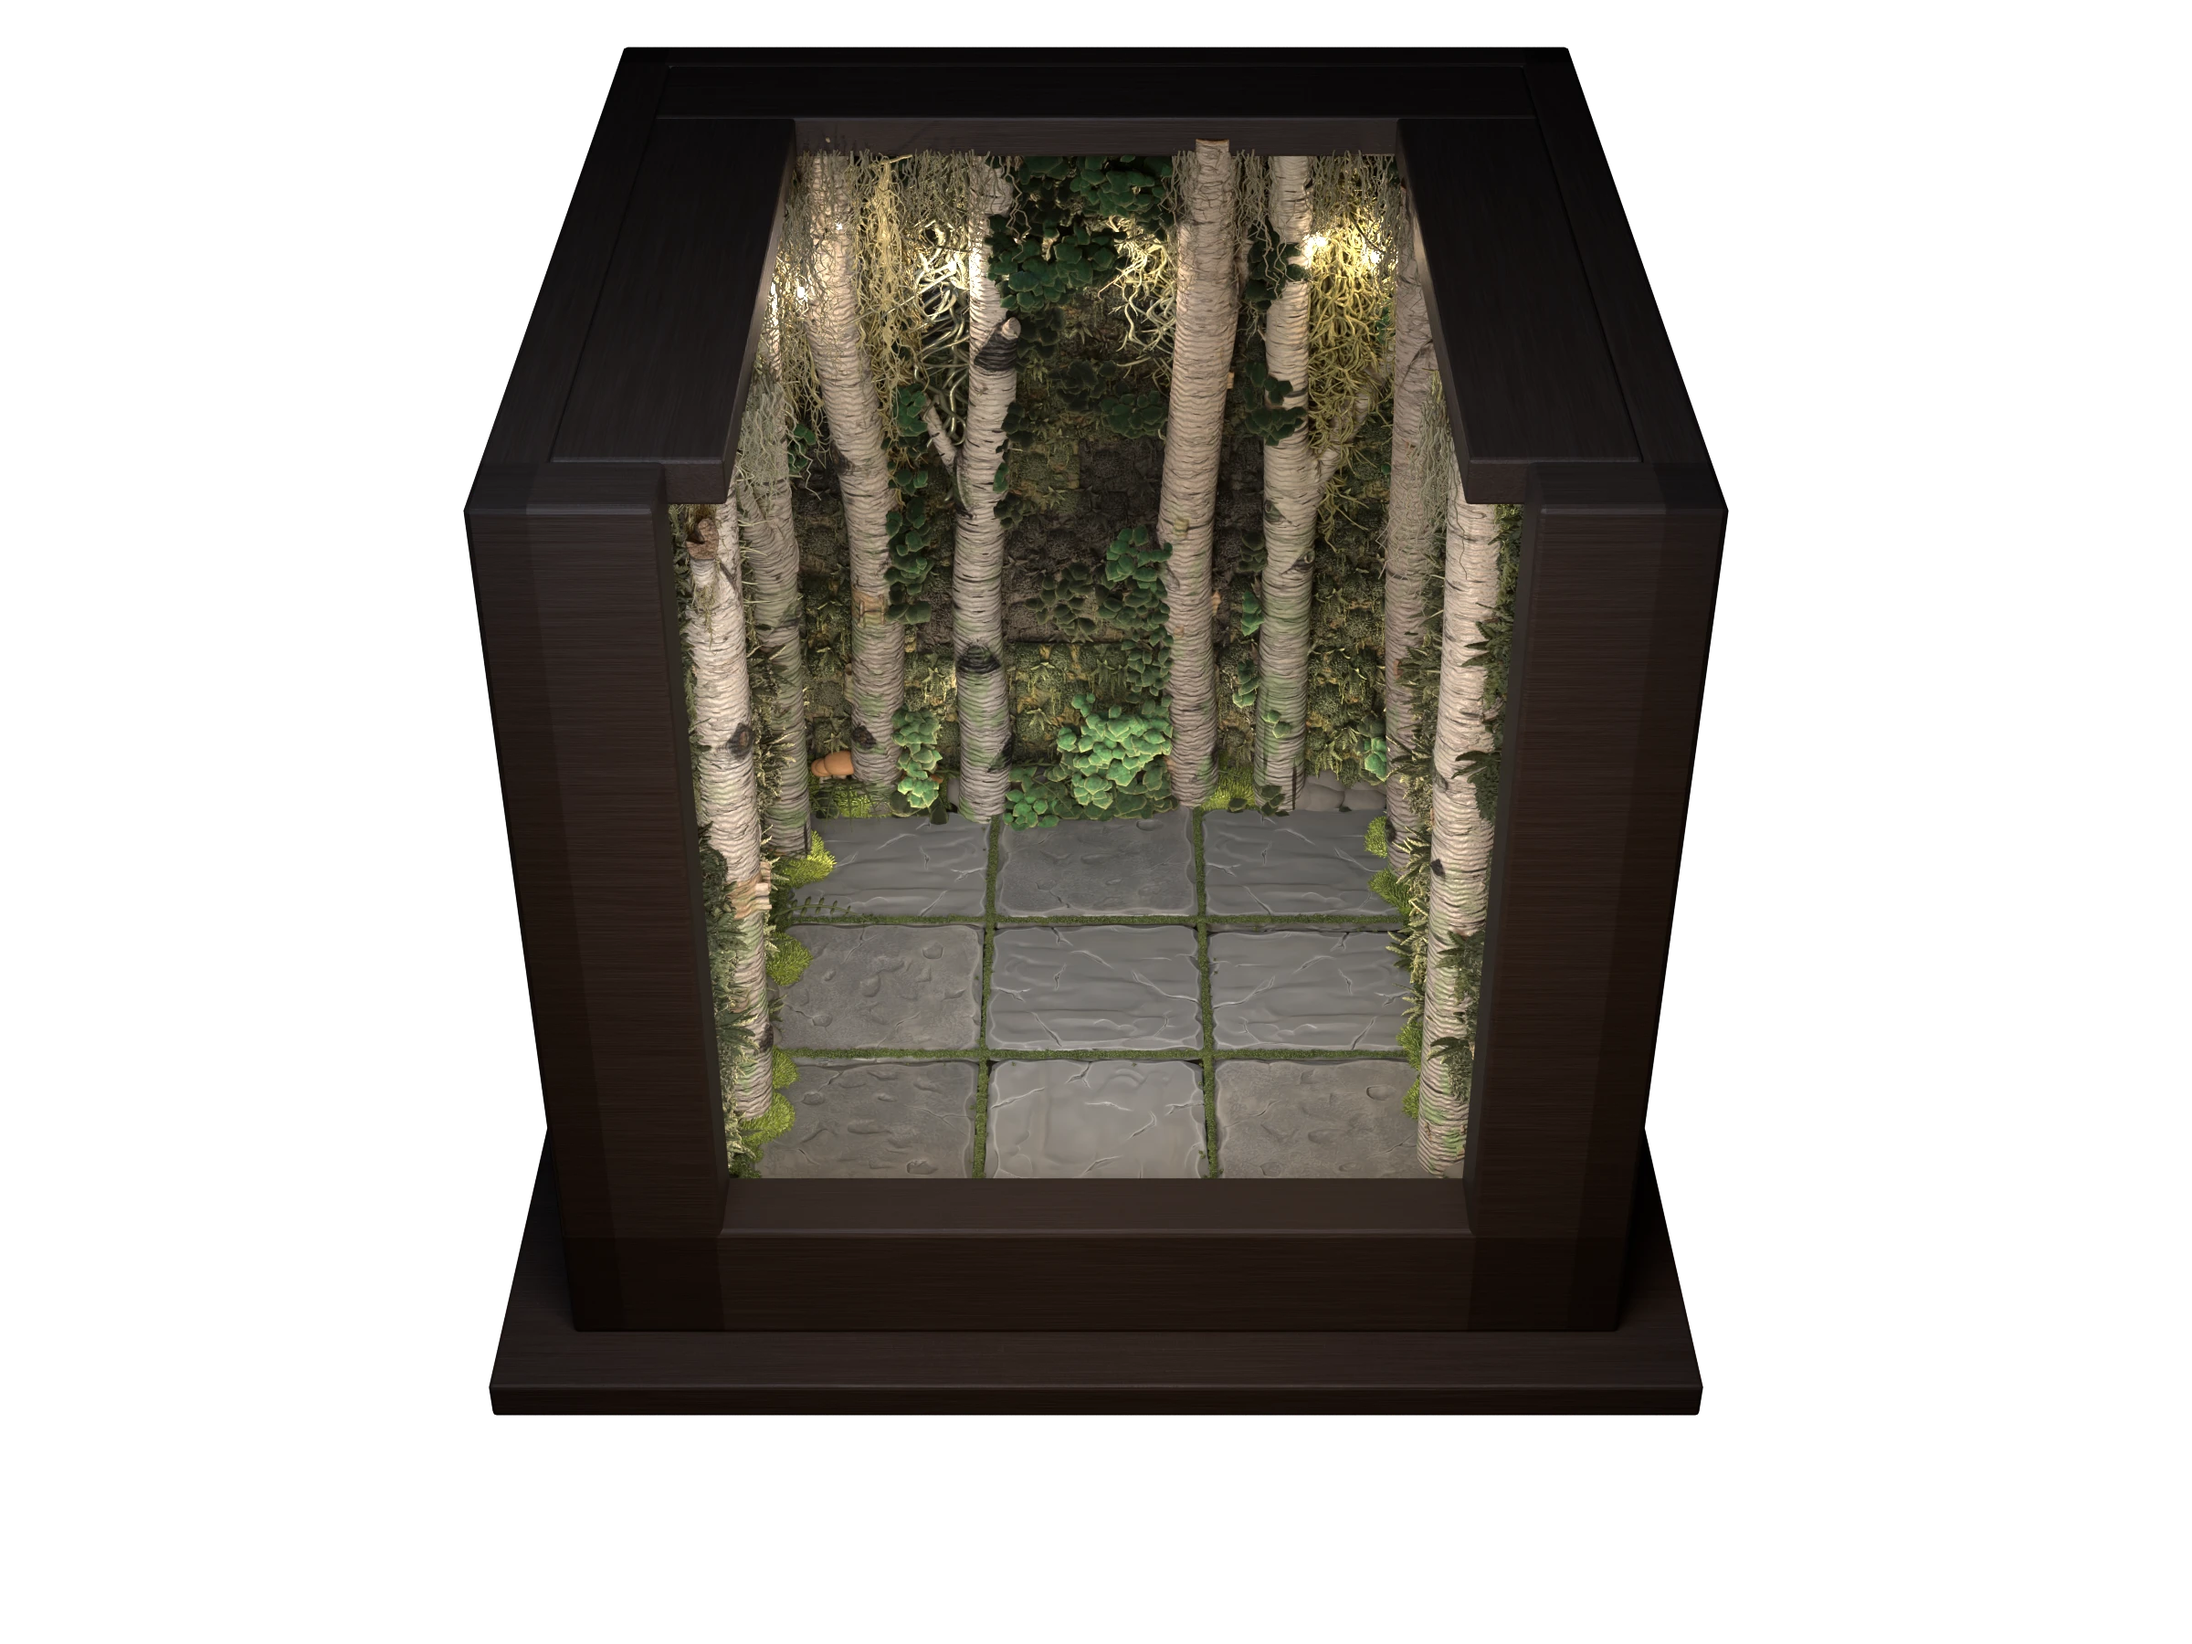
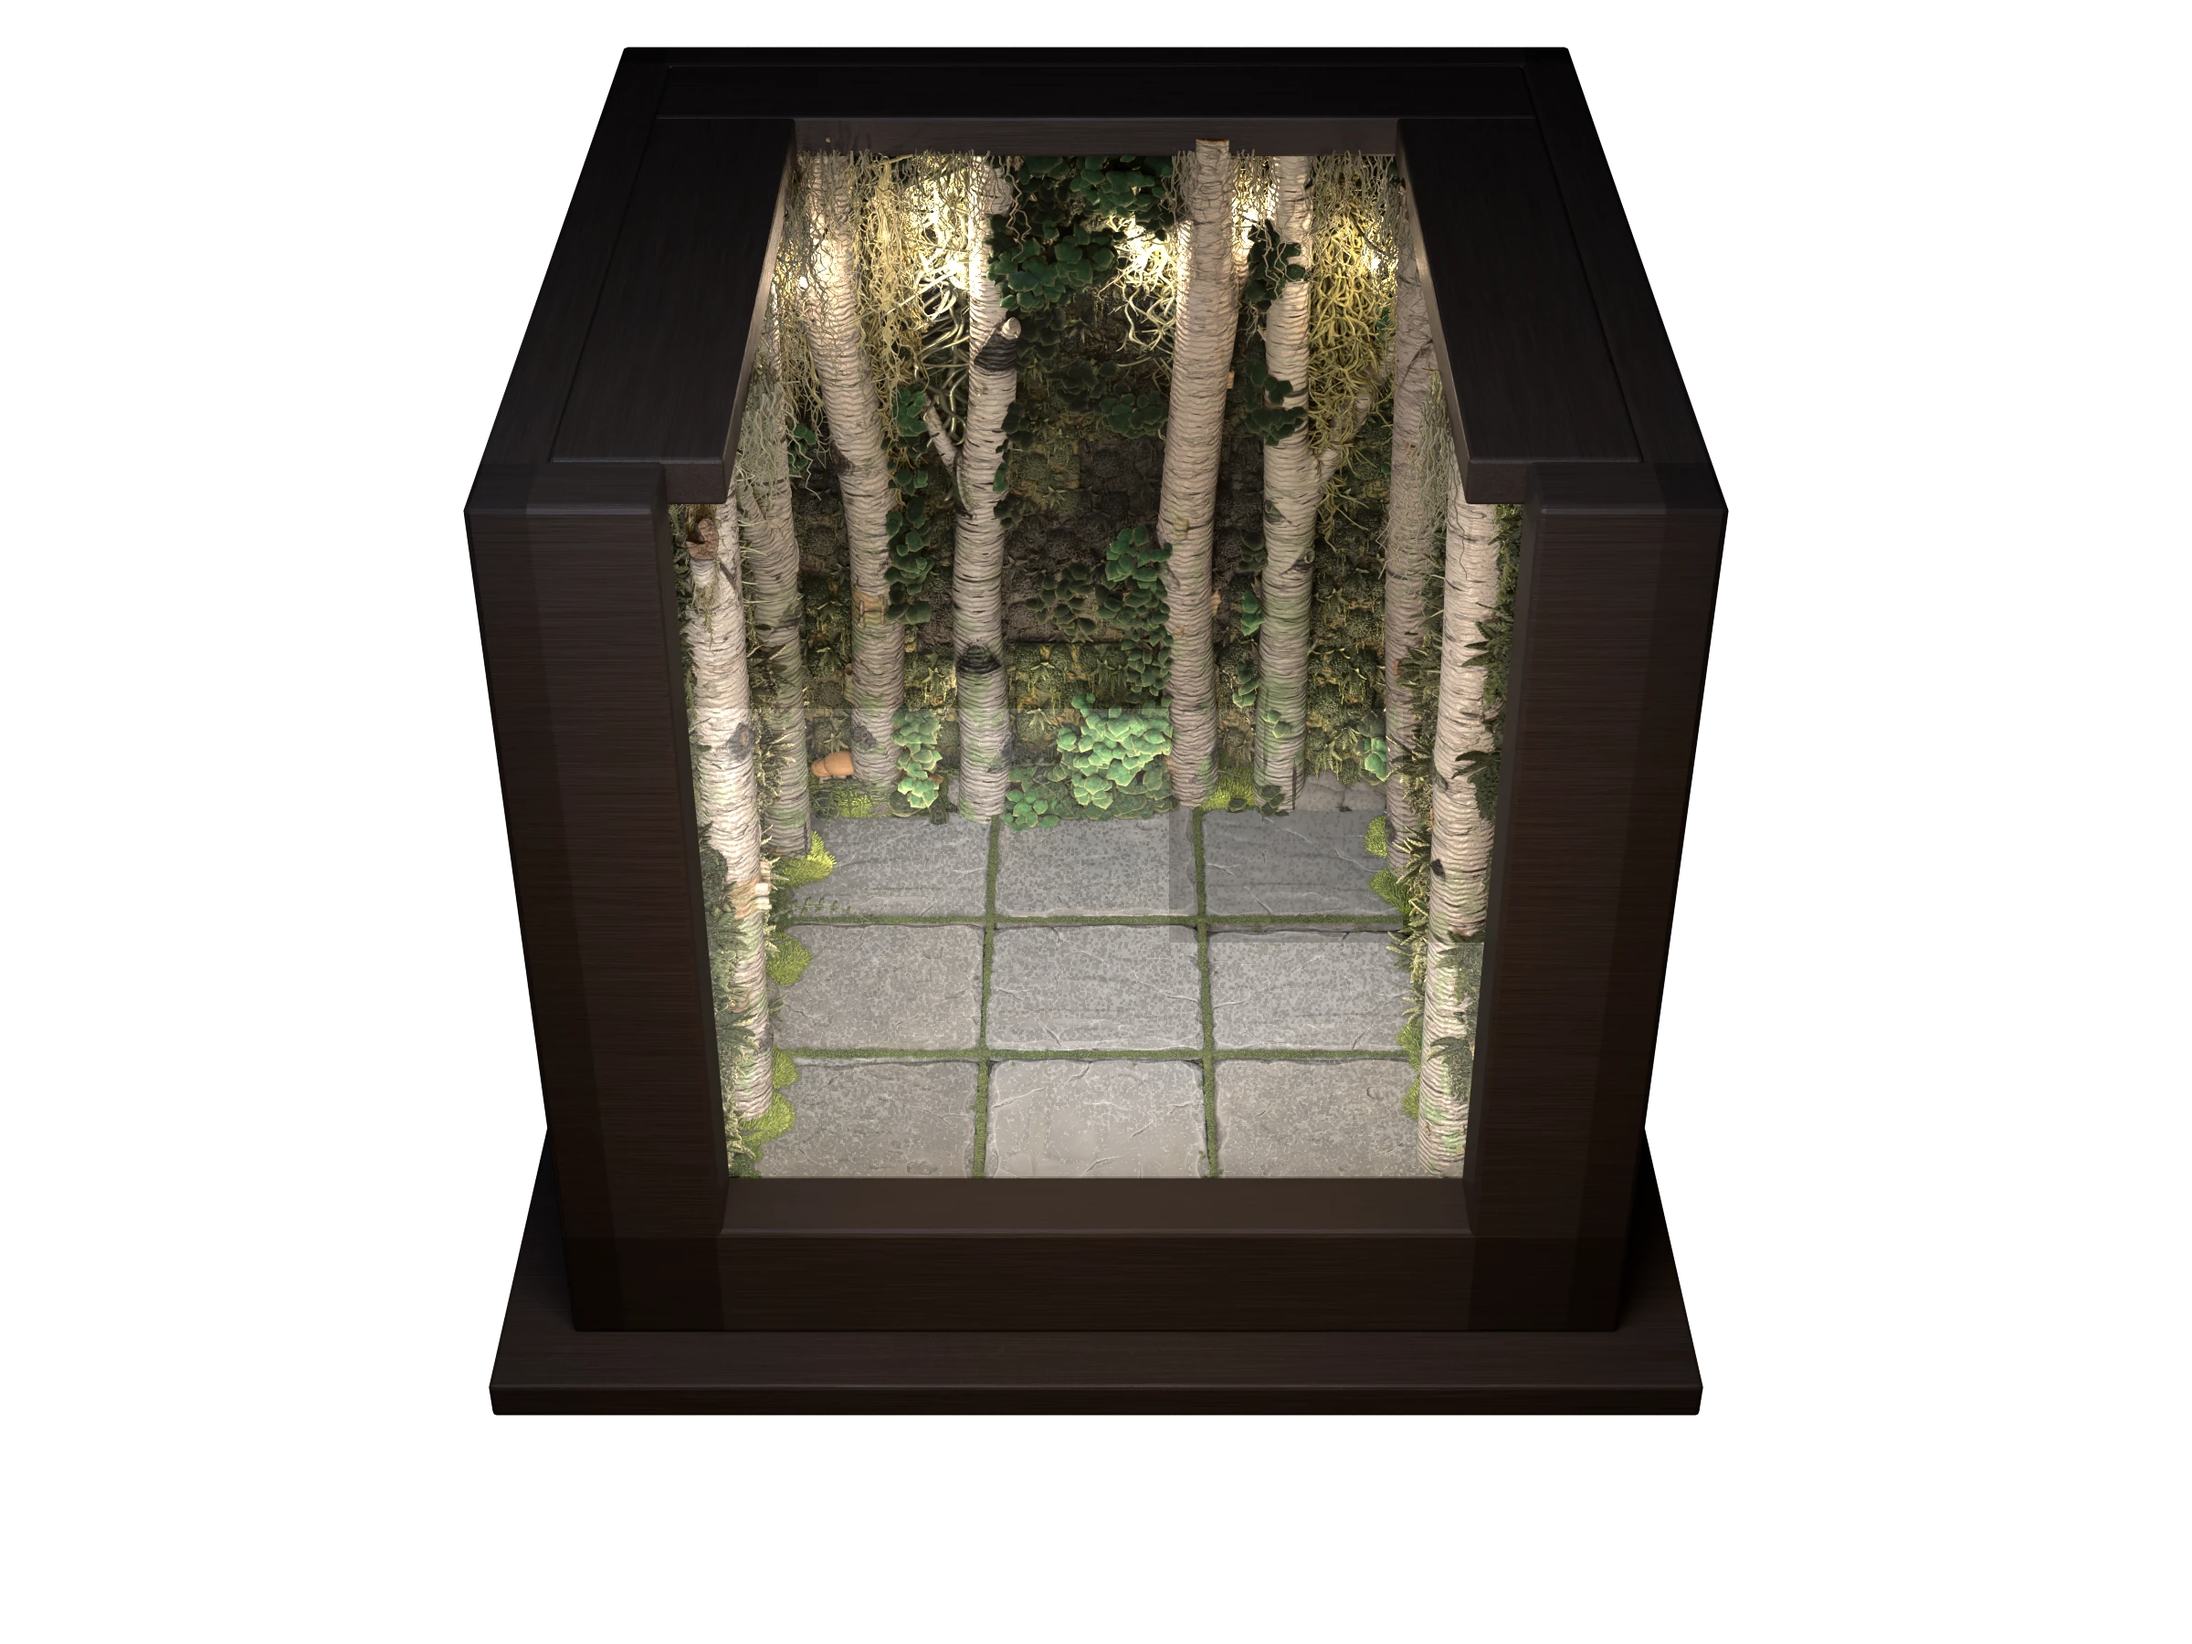
Fairy lights: all 8 bulbs visible and alike
The set bake tucks bulbs into the moss at even brightness and slides any bulb a
trunk or thick moss hides; sets 3, 5 and 8 rebaked. Each bulb gets the same warm
halo in the browser. Test: the play camera sees every bulb in every set.

Changed region(s): [[0.3125, 0.4044, 0.6875, 0.7156], [0.3438, 0.0933, 0.6562, 0.2178], [0.6562, 0.2178, 0.6875, 0.2489]]

diff --git a/src/diorama/Diorama.tsx b/src/diorama/Diorama.tsx
@@ -68,8 +68,37 @@ function Lights({ data, w, h }: { data: SetData; w: number; h: number }) {
     <spotLight ref={r => spot(r, [0, 0.82, -0.58])} position={[0, -6.34 * H, 4.5 * H]} intensity={3757 / (4 * Math.PI)} angle={0.96} penumbra={0.8} color={new THREE.Color(1.0, 0.7, 0.42)} decay={2} />
     <spotLight ref={r => spot(r, [-0.1, -0.56, -0.82])} position={[-1.2 * H, Math.min(1.92 * H, h * data.info.S / 2), 3.4 * H]} intensity={101 / Math.PI} angle={1.3} penumbra={1} color={new THREE.Color(0.4, 0.58, 1.0)} decay={2} />
     {bulbs.map((b, i) => <pointLight key={i} position={b} intensity={22 / (4 * Math.PI)} color={new THREE.Color(1.0, 0.62, 0.32)} decay={2} />)}
+    <BulbHalos bulbs={bulbs} H={H} />
     <ShadowCatcher data={data} w={w} h={h} />
   </>;
+}
+
+/** One soft warm halo per fairy bulb, the same on every bulb: the baked glow depends on how much moss hangs
+ * near a bulb, so a bulb in the open looked like a bare white dot next to its glowing neighbours. Depth-tested
+ * against the set, so moss and trunks in front still cover it; additive and brighter than white at the
+ * core, so the bloom picks it up like the baked glow. */
+export const HALO = { size: 0.42, core: 1.6, pull: 0.2 } as const; // size and pull in units of H; core = brightness at the centre
+let haloTex: THREE.Texture | null = null;
+function haloTexture() {
+  if (haloTex) return haloTex;
+  const c = document.createElement("canvas"); c.width = c.height = 64;
+  const x = c.getContext("2d")!, g = x.createRadialGradient(32, 32, 0, 32, 32, 32);
+  g.addColorStop(0, "rgba(255,236,190,1)"); g.addColorStop(0.18, "rgba(255,190,105,0.7)"); g.addColorStop(0.5, "rgba(255,150,60,0.18)"); g.addColorStop(1, "rgba(255,130,40,0)");
+  x.fillStyle = g; x.fillRect(0, 0, 64, 64);
+  haloTex = new THREE.CanvasTexture(c); haloTex.colorSpace = THREE.SRGBColorSpace;
+  return haloTex;
+}
+function BulbHalos({ bulbs, H }: { bulbs: [number, number, number][]; H: number }) {
+  // pulled toward the camera so loose moss right around a bulb doesn't nibble its halo (three's y-up camera
+  // position back into Blender axes: x, -z, y)
+  const cam = useThree(s => s.camera.position);
+  const at = useMemo(() => bulbs.map(b => {
+    const v = new THREE.Vector3(...b), eye = new THREE.Vector3(cam.x, -cam.z, cam.y);
+    return v.addScaledVector(eye.sub(v).normalize(), HALO.pull * H).toArray() as [number, number, number];
+  }), [bulbs, H, cam.x, cam.y, cam.z]);
+  const mat = useMemo(() => new THREE.SpriteMaterial({ map: haloTexture(), color: new THREE.Color(HALO.core, HALO.core, HALO.core), blending: THREE.AdditiveBlending, depthWrite: false, transparent: true, toneMapped: false }), []);
+  useEffect(() => () => mat.dispose(), [mat]);
+  return <>{at.map((b, i) => <sprite key={i} position={b} scale={[HALO.size * H, HALO.size * H, 1]} material={mat} name="bulb-halo" />)}</>;
 }
 
 /** Live shadows on the baked floor: a shadow-only light along the stage's key (stage.py's pool spot, high over

diff --git a/tests/diorama-set.test.ts b/tests/diorama-set.test.ts
@@ -32,6 +32,27 @@ describe("diorama set", () => {
     const i = info(5);
     expect(playCamera(i, 5, 5, 4 / 3).zoom).toBeCloseTo(i.camera.zoom, 6);
   });
+  it("the play camera sees every fairy bulb (no trunk or solid moss in front)", () => {
+    for (const n of [3, 5, 8]) {
+      const i = info(n), depth = new Uint16Array(fs.readFileSync(`public/diorama/set${n}.depth`).buffer.slice(0));
+      const M = i.camera.matrixWorld, f = i.camera.sensor / i.camera.lens, [w, h] = i.res, [gw, gh] = i.grid, st = i.stride;
+      const hidden = i.bulbs.filter(b => {
+        // into camera space (the matrix is a rotation plus a move), then onto the depth grid
+        const v = [0, 1, 2].map(r => b[r] - M[r][3]);
+        const [xc, yc, zc] = [0, 1, 2].map(c => M[0][c] * v[0] + M[1][c] * v[1] + M[2][c] * v[2]);
+        const d = -zc, px = (xc / (f * d) + 0.5) * w, py = (0.5 - yc / (f * (h / w) * d)) * h;
+        const ci = Math.round(px / st), cj = Math.round(py / st);
+        // somewhere within a bulb's width the camera reaches the bulb (or past it)
+        for (let dj = -2; dj <= 2; dj++) for (let di = -2; di <= 2; di++) {
+          const k = (cj + dj) * gw + ci + di;
+          if (ci + di < 0 || ci + di >= gw || cj + dj < 0 || cj + dj >= gh) continue;
+          if (i.near + (depth[k] - 1) / 65534 * (i.far - i.near) >= d - 0.04 * i.H) return false;
+        }
+        return true;
+      });
+      expect(hidden, `set${n}`).toEqual([]);
+    }
+  });
   it("small boards back the camera off no further than their bake", () => {
     for (const [w, h] of [[2, 2], [3, 3], [2, 3]]) expect(playCamera(info(3), w, h, 4 / 3).zoom).toBeGreaterThanOrEqual(info(3).camera.zoom);
   });

diff --git a/tools/art/diorama/bake_set.py b/tools/art/diorama/bake_set.py
@@ -16,7 +16,7 @@
 #   set{N}.json     camera, grid, scene units, bulb positions
 import bpy, sys, os, math, json, time, argparse
 import numpy as np
-from mathutils import Vector
+from mathutils import Matrix, Vector
 
 STAGE = os.environ.get("STAGE_DIR", os.path.expanduser("~/.dos/scratch/d84406ef/stage"))
 sys.path.insert(0, STAGE)
@@ -67,6 +67,73 @@ zoom = ZOOM5 * (5 + 1.24) / (a.n + 1.24) * a.zoom_k
 cam = stage.build_camera(sc, H, aspect=ASPECT, zoom=zoom, elevation=EL, look_ahead=LA, focal=FOCAL)
 cam.data.dof.use_dof = False  # f/8 on a 5 cm king is near-sharp; the browser view stays sharp
 stage.setup_render(sc, res=a.res, samples=a.samples, aspect=ASPECT)
+
+
+def clear_bulbs(sc, cam, S):
+    """Slides any fairy bulb a birch trunk (or a solid hank of moss) hides from the play camera sideways until the camera sees all of it.
+    Moves the bulb, its light and the bottom of its drop wire together. Returns (name, dx) for each move."""
+    dg = bpy.context.evaluated_depsgraph_get()
+    eye = cam.matrix_world.translation.copy()
+    wire = bpy.data.objects.get("FairyWire2")
+    def centre(o):
+        bb = [o.matrix_world @ Vector(b) for b in o.bound_box]
+        return sum(bb, Vector()) / 8, (max(v.x for v in bb) - min(v.x for v in bb)) / 2
+    def blocked(p, r, any_hit):
+        """Does something stand between the camera and p? A trunk always counts; with any_hit, so does moss."""
+        d = p - eye
+        o_, left = eye.copy(), d.length - 0.5 * r
+        for _ in range(64):  # walk on through haze (and moss, unless it counts)
+            hit, loc, _, _, ob, _ = sc.ray_cast(dg, o_, d.normalized(), distance=left)
+            if not hit:
+                return False
+            if ob.name.startswith("Birch") or (any_hit and not ob.name.startswith(("Haze", "FairyWire", "FairyBulb", "FairyPin"))):
+                return True
+            step = (loc - o_).length + 1e-4
+            o_, left = o_ + d.normalized() * step, left - step
+            if left <= 0:
+                return False
+        return False
+
+    def hidden(c, r):
+        # a trunk over any part of the bulb, or moss over most of it (a strand or two across it is fine)
+        offs = [Vector(), Vector((r, 0, 0)), Vector((-r, 0, 0)), Vector((0, 0, r)), Vector((0, 0, -r))]
+        if any(blocked(c + o_, r, False) for o_ in offs):
+            return True
+        return sum(blocked(c + o_, r, True) for o_ in offs) >= 3
+    moved = []
+    for o in sorted((o for o in bpy.data.objects if o.name.startswith("FairyBulb2_")), key=lambda o: o.name):
+        c, r = centre(o)
+        if not hidden(c, r):
+            continue
+        dx = None
+        for k in range(1, 40):  # nearest clear spot, either side, plus a bulb's width of margin
+            for sg in (1, -1):
+                t = sg * k * 0.02 * S
+                if not hidden(c + Vector((t, 0, 0)), r) and not hidden(c + Vector((t + sg * 2 * r, 0, 0)), r):
+                    dx = t + sg * 2 * r
+                    break
+            if dx is not None:
+                break
+        if dx is None:
+            print("BULB_STILL_HIDDEN", o.name, flush=True)
+            continue
+        o.data.transform(Matrix.Translation((dx, 0, 0)))
+        lo = bpy.data.objects.get("fairy2_" + o.name.split("_")[-1])
+        if lo:
+            lo.location.x += dx
+        if wire:
+            for sp in wire.data.splines:
+                if len(sp.points) == 2:
+                    q = Vector(sp.points[1].co[:3])
+                    if abs(q.x - c.x) < 1e-3 and abs(q.y - c.y) < 1e-3 and 0 < q.z - c.z < 4 * r:
+                        sp.points[1].co = (q.x + dx, q.y, q.z, 1.0)
+        moved.append((o.name, round(dx, 4)))
+        dg = bpy.context.evaluated_depsgraph_get()
+    return moved
+
+
+if os.environ.get("FAIRY_CLEAR", "1") == "1":
+    print("BULBS_MOVED", clear_bulbs(sc, cam, S), flush=True)
 sc.render.film_transparent = True
 vl = sc.view_layers[0]
 vl.use_pass_position = True

diff --git a/docs/HANDOFF.md b/docs/HANDOFF.md
@@ -13,6 +13,11 @@
   `tools/art/diorama/bake.sh` and `bake_king.py`, which need `stage.py`
   and the Meshy assets in `~/.dos/scratch/d84406ef/` (not in the repo).
   No WebGL: falls back to 2D. Debug: `?fps`, `?dio=nobloom,nograde,nolut`.
+  Fairy lights (Nov 20): the bake tucks every bulb just inside the moss at even brightness
+  (`FAIRY_TUCK`, `BULB_EVEN` in bake.sh; the stage.py switches) and `bake_set.py` slides any bulb a trunk or
+  thick moss hides until the camera sees it (`BULBS_MOVED` in the log; test in diorama-set.test.ts). The
+  browser adds one identical warm halo per bulb (`BulbHalos`, `HALO` in Diorama.tsx).
+  Play mode has a Full screen button (browser full screen; fills the window on iPhone).
   The white king is Cycles king A pre-rendered at 8 headings
   (`KingSprite.tsx`, `public/diorama/king8.*`) on a camera-facing quad
   The idle king now holds the royal blade in a two-handed middle guard (Wesley's picks, Nov 2026): sword built by
